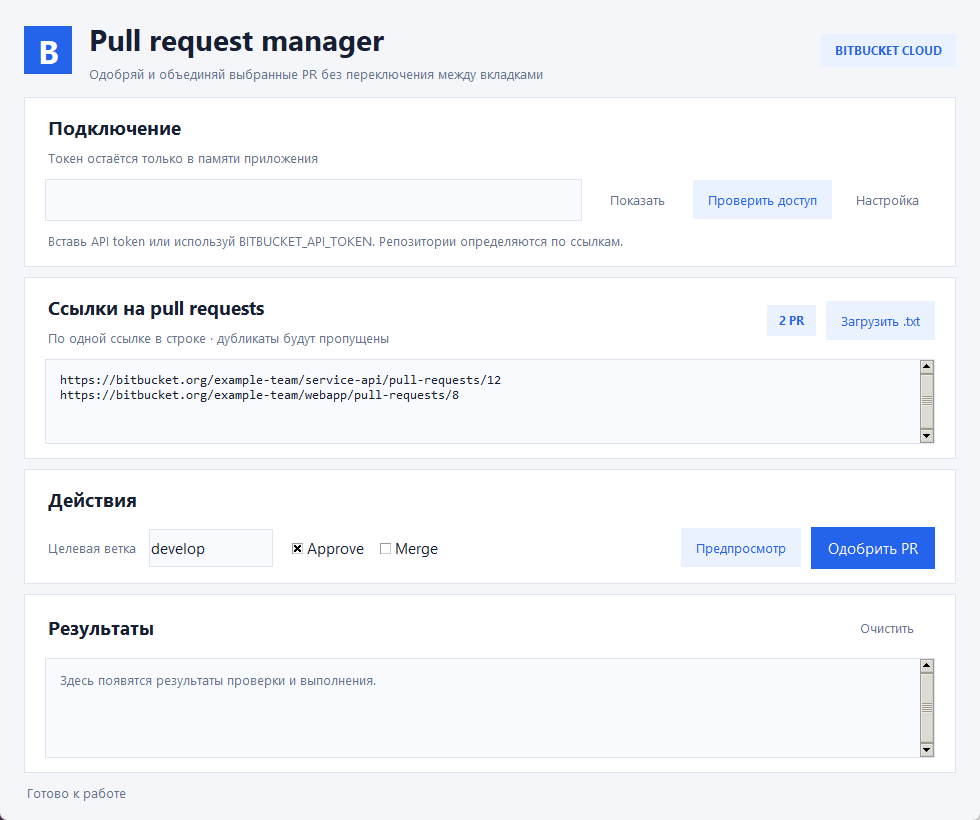
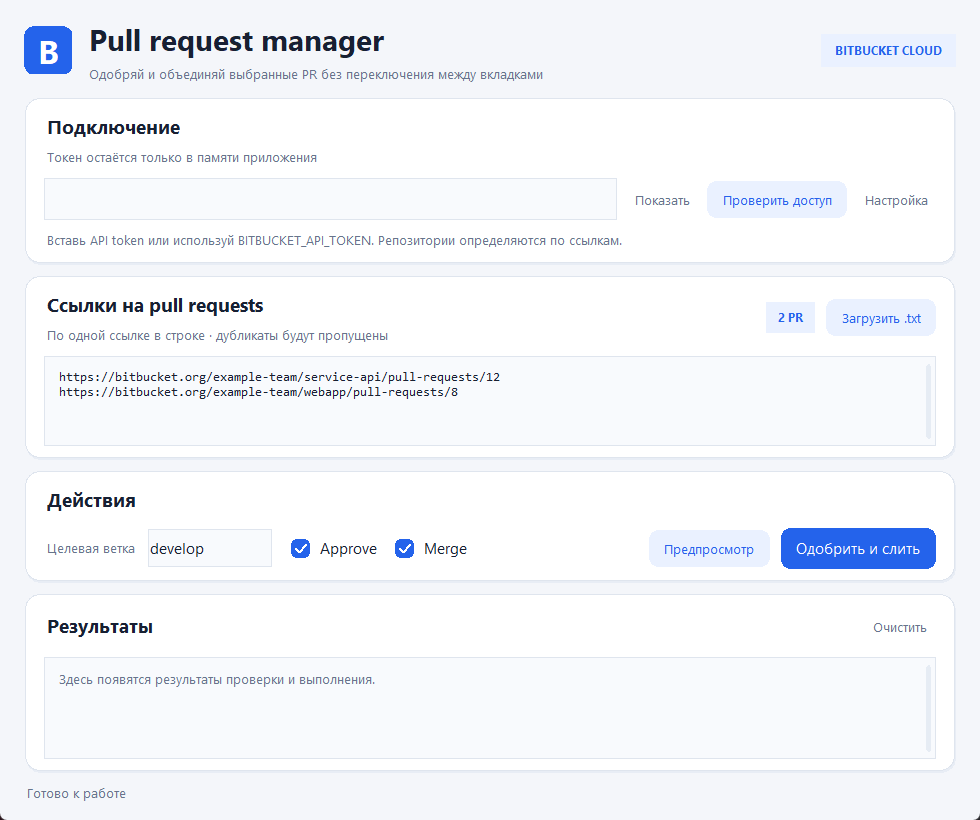
Polish rounded controls, ticks and scrollbars

diff --git a/app/bitbucket_pr_ui.py b/app/bitbucket_pr_ui.py
@@ -37,6 +37,196 @@ def system_font(root):
     return next((name for name in preferred if name in families), "TkDefaultFont")
 
 
+def rounded_rect(canvas, x0, y0, x1, y1, radius, color, tag="shape"):
+    """Draw a filled rounded rectangle using Tk primitives on every platform."""
+    if x1 <= x0 or y1 <= y0:
+        return
+    radius = min(radius, (x1 - x0) / 2, (y1 - y0) / 2)
+    corners = (
+        (x0, y0, 90),
+        (x1 - 2 * radius, y0, 0),
+        (x1 - 2 * radius, y1 - 2 * radius, 270),
+        (x0, y1 - 2 * radius, 180),
+    )
+    for left, top, start in corners:
+        canvas.create_arc(left, top, left + 2 * radius, top + 2 * radius,
+                          start=start, extent=90, style="pieslice",
+                          fill=color, outline=color, tags=tag)
+    canvas.create_rectangle(x0 + radius, y0, x1 - radius, y1,
+                            fill=color, outline=color, tags=tag)
+    canvas.create_rectangle(x0, y0 + radius, x1, y1 - radius,
+                            fill=color, outline=color, tags=tag)
+
+
+class RoundedButton(tk.Canvas):
+    def __init__(self, parent, text, command, font, kind="secondary"):
+        self.label = text
+        self.command = command
+        self.kind = kind
+        self.enabled = True
+        self.hovered = False
+        self.text_font = tkfont.Font(font=font)
+        self.pad_x = 16 if kind != "ghost" else 9
+        self.button_height = 42 if kind == "accent" else 38
+        super().__init__(parent, height=self.button_height, bg=COLORS["surface"],
+                         highlightthickness=0, bd=0, takefocus=1, cursor="hand2")
+        self.set_label(text)
+        self.bind("<Configure>", lambda _event: self.draw())
+        self.bind("<Enter>", self.on_enter)
+        self.bind("<Leave>", self.on_leave)
+        self.bind("<Button-1>", self.on_click)
+        self.bind("<Return>", self.on_click)
+        self.bind("<space>", self.on_click)
+
+    def set_label(self, text):
+        self.label = text
+        self.configure(width=self.text_font.measure(text) + 2 * self.pad_x)
+        self.draw()
+
+    def set_enabled(self, enabled):
+        self.enabled = enabled
+        self.configure(cursor="hand2" if enabled else "arrow")
+        self.draw()
+
+    def on_enter(self, _event):
+        self.hovered = True
+        self.draw()
+
+    def on_leave(self, _event):
+        self.hovered = False
+        self.draw()
+
+    def on_click(self, _event):
+        if self.enabled:
+            self.focus_set()
+            self.command()
+
+    def draw(self):
+        self.delete("all")
+        if self.kind == "accent":
+            fill = COLORS["accent_hover"] if self.hovered else COLORS["accent"]
+            foreground = "#FFFFFF"
+        elif self.kind == "ghost":
+            fill = "#F1F5FB" if self.hovered else COLORS["surface"]
+            foreground = COLORS["accent"] if self.hovered else COLORS["muted"]
+        else:
+            fill = "#DCE9FF" if self.hovered else COLORS["accent_soft"]
+            foreground = COLORS["accent"]
+        if not self.enabled:
+            fill, foreground = "#EEF1F6", "#9AA7B8"
+        width = int(self.cget("width"))
+        height = int(self.cget("height"))
+        rounded_rect(self, 1, 1, width - 1, height - 1, 9, fill)
+        self.create_text(width / 2, height / 2, text=self.label,
+                         fill=foreground, font=self.text_font)
+
+
+class TickBox(tk.Frame):
+    def __init__(self, parent, text, variable, font):
+        super().__init__(parent, bg=COLORS["surface"], takefocus=1, cursor="hand2")
+        self.variable = variable
+        self.icon = tk.Canvas(self, width=20, height=20, bg=COLORS["surface"],
+                              highlightthickness=0, bd=0, cursor="hand2")
+        self.icon.pack(side="left", padx=(0, 7))
+        self.text = tk.Label(self, text=text, bg=COLORS["surface"],
+                             fg=COLORS["text"], font=font, cursor="hand2")
+        self.text.pack(side="left")
+        for widget in (self, self.icon, self.text):
+            widget.bind("<Button-1>", self.toggle)
+        self.bind("<Return>", self.toggle)
+        self.bind("<space>", self.toggle)
+        variable.trace_add("write", lambda *_: self.draw())
+        self.draw()
+
+    def toggle(self, _event):
+        self.focus_set()
+        self.variable.set(not self.variable.get())
+
+    def draw(self):
+        self.icon.delete("all")
+        selected = self.variable.get()
+        rounded_rect(self.icon, 1, 1, 19, 19, 5,
+                     COLORS["accent"] if selected else COLORS["border"])
+        if selected:
+            rounded_rect(self.icon, 2, 2, 18, 18, 4, COLORS["accent"])
+            self.icon.create_line(5, 10, 9, 14, 16, 6, fill="white",
+                                  width=2.2, capstyle="round", joinstyle="round")
+        else:
+            rounded_rect(self.icon, 2, 2, 18, 18, 4, COLORS["surface"])
+
+
+class PillScrollbar(tk.Canvas):
+    def __init__(self, parent, command):
+        super().__init__(parent, width=14, height=1, bg=COLORS["field"],
+                         highlightthickness=0, bd=0, cursor="hand2")
+        self.command = command
+        self.first = 0.0
+        self.last = 1.0
+        self.hovered = False
+        self.drag_offset = 0.0
+        self.thumb_top = 0.0
+        self.thumb_height = 0.0
+        self.bind("<Configure>", lambda _event: self.draw())
+        self.bind("<Enter>", self.on_enter)
+        self.bind("<Leave>", self.on_leave)
+        self.bind("<Button-1>", self.on_press)
+        self.bind("<B1-Motion>", self.on_drag)
+        self.bind("<MouseWheel>", self.on_wheel)
+        self.bind("<Button-4>", lambda _event: self.command("scroll", -1, "units"))
+        self.bind("<Button-5>", lambda _event: self.command("scroll", 1, "units"))
+
+    def set(self, first, last):
+        self.first = max(0.0, min(1.0, float(first)))
+        self.last = max(self.first, min(1.0, float(last)))
+        self.draw()
+
+    def draw(self):
+        self.delete("all")
+        height = self.winfo_height()
+        if height <= 2:
+            return
+        rounded_rect(self, 5, 7, 9, height - 7, 2, "#E6ECF4")
+        visible = self.last - self.first
+        if visible >= 0.999:
+            return
+        span = max(1.0, height - 14)
+        self.thumb_height = min(span, max(30.0, span * visible))
+        available = max(0.0, span - self.thumb_height)
+        self.thumb_top = 7 + available * self.first / max(0.001, 1 - visible)
+        color = COLORS["accent"] if self.hovered else "#AAB8CC"
+        rounded_rect(self, 3, self.thumb_top, 11,
+                     self.thumb_top + self.thumb_height, 4, color)
+
+    def on_enter(self, _event):
+        self.hovered = True
+        self.draw()
+
+    def on_leave(self, _event):
+        self.hovered = False
+        self.draw()
+
+    def on_press(self, event):
+        if self.last - self.first >= 0.999:
+            return
+        if self.thumb_top <= event.y <= self.thumb_top + self.thumb_height:
+            self.drag_offset = event.y - self.thumb_top
+        else:
+            self.drag_offset = self.thumb_height / 2
+            self.on_drag(event)
+
+    def on_drag(self, event):
+        visible = self.last - self.first
+        if visible >= 0.999:
+            return
+        available = max(1.0, self.winfo_height() - 14 - self.thumb_height)
+        offset = max(0.0, min(available, event.y - self.drag_offset - 7))
+        self.command("moveto", offset / available * (1 - visible))
+
+    def on_wheel(self, event):
+        direction = -1 if event.delta > 0 else 1
+        self.command("scroll", direction, "units")
+
+
 class PullRequestApp:
     def __init__(self, root):
         self.root = root
@@ -77,7 +267,7 @@ class PullRequestApp:
         header.columnconfigure(1, weight=1)
         logo = tk.Canvas(header, width=48, height=48, bg=COLORS["background"], highlightthickness=0)
         logo.grid(row=0, column=0, rowspan=2, sticky="w", padx=(0, 14))
-        logo.create_rectangle(0, 0, 48, 48, fill=COLORS["accent"], outline=COLORS["accent"])
+        rounded_rect(logo, 0, 0, 48, 48, 10, COLORS["accent"])
         logo.create_text(24, 24, text="B", fill="white", font=(self.font_name, 24, "bold"))
         tk.Label(header, text="Pull request manager", bg=COLORS["background"],
                  fg=COLORS["text"], font=self.font_title).grid(row=0, column=1, sticky="w")
@@ -101,14 +291,14 @@ class PullRequestApp:
             highlightcolor=COLORS["accent"], bd=0,
         )
         self.token_entry.grid(row=0, column=0, sticky="ew", ipady=9)
-        self.show_button = ttk.Button(credential_row, text="Показать", style="Ghost.TButton",
-                                      command=self.toggle_token)
+        self.show_button = RoundedButton(credential_row, "Показать", self.toggle_token,
+                                         self.font_small, kind="ghost")
         self.show_button.grid(row=0, column=1, padx=(8, 0))
-        self.test_button = ttk.Button(credential_row, text="Проверить доступ",
-                                      style="Secondary.TButton", command=self.check_connection)
+        self.test_button = RoundedButton(credential_row, "Проверить доступ",
+                                         self.check_connection, self.font_small)
         self.test_button.grid(row=0, column=2, padx=(8, 0))
-        ttk.Button(credential_row, text="Настройка", style="Ghost.TButton",
-                   command=self.show_guide).grid(row=0, column=3, padx=(8, 0))
+        RoundedButton(credential_row, "Настройка", self.show_guide,
+                      self.font_small, kind="ghost").grid(row=0, column=3, padx=(8, 0))
         tk.Label(account, text="Вставь API token или используй BITBUCKET_API_TOKEN. Репозитории определяются по ссылкам.",
                  bg=COLORS["surface"], fg=COLORS["muted"],
                  font=self.font_small).grid(row=2, column=0, sticky="w", pady=(8, 0))
@@ -127,8 +317,8 @@ class PullRequestApp:
         tk.Label(links_top, textvariable=self.link_count, bg=COLORS["accent_soft"],
                  fg=COLORS["accent"], font=(self.font_name, 9, "bold"),
                  padx=10, pady=6).grid(row=0, column=1, rowspan=2, padx=(10, 10))
-        self.load_button = ttk.Button(links_top, text="Загрузить .txt",
-                                      style="Secondary.TButton", command=self.load_file)
+        self.load_button = RoundedButton(links_top, "Загрузить .txt",
+                                         self.load_file, self.font_small)
         self.load_button.grid(row=0, column=2, rowspan=2)
         text_container = tk.Frame(links_card, bg=COLORS["border"], padx=1, pady=1)
         text_container.grid(row=1, column=0, sticky="nsew")
@@ -140,7 +330,7 @@ class PullRequestApp:
             selectbackground=COLORS["accent_soft"], relief="flat", bd=0, padx=14, pady=12,
         )
         self.links.grid(row=0, column=0, sticky="nsew")
-        links_scroll = ttk.Scrollbar(text_container, orient="vertical", command=self.links.yview)
+        links_scroll = PillScrollbar(text_container, command=self.links.yview)
         links_scroll.grid(row=0, column=1, sticky="ns")
         self.links.configure(yscrollcommand=links_scroll.set)
         self.links.bind("<<Modified>>", self.update_link_count)
@@ -157,15 +347,13 @@ class PullRequestApp:
                  bg=COLORS["field"], fg=COLORS["text"], relief="flat",
                  highlightthickness=1, highlightbackground=COLORS["border"],
                  highlightcolor=COLORS["accent"], bd=0).pack(side="left", ipady=7, padx=(0, 18))
-        ttk.Checkbutton(options, text="Approve", variable=self.approve,
-                        style="Card.TCheckbutton").pack(side="left", padx=(0, 14))
-        ttk.Checkbutton(options, text="Merge", variable=self.merge,
-                        style="Card.TCheckbutton").pack(side="left")
-        self.run_button = ttk.Button(options, text="Одобрить PR",
-                                     style="Accent.TButton", command=self.run)
+        TickBox(options, "Approve", self.approve, self.font).pack(side="left", padx=(0, 14))
+        TickBox(options, "Merge", self.merge, self.font).pack(side="left")
+        self.run_button = RoundedButton(options, "Одобрить PR", self.run,
+                                        self.font, kind="accent")
         self.run_button.pack(side="right")
-        self.preview_button = ttk.Button(options, text="Предпросмотр",
-                                         style="Secondary.TButton", command=self.preview)
+        self.preview_button = RoundedButton(options, "Предпросмотр",
+                                            self.preview, self.font_small)
         self.preview_button.pack(side="right", padx=(0, 10))
         self.approve.trace_add("write", self.update_run_label)
         self.merge.trace_add("write", self.update_run_label)
@@ -178,8 +366,8 @@ class PullRequestApp:
         results_top.columnconfigure(0, weight=1)
         tk.Label(results_top, text="Результаты", bg=COLORS["surface"],
                  fg=COLORS["text"], font=self.font_section).grid(row=0, column=0, sticky="w")
-        ttk.Button(results_top, text="Очистить", style="Ghost.TButton",
-                   command=self.clear_output).grid(row=0, column=1)
+        RoundedButton(results_top, "Очистить", self.clear_output,
+                      self.font_small, kind="ghost").grid(row=0, column=1)
         output_container = tk.Frame(results, bg=COLORS["border"], padx=1, pady=1)
         output_container.grid(row=1, column=0, sticky="nsew")
         output_container.columnconfigure(0, weight=1)
@@ -190,7 +378,7 @@ class PullRequestApp:
             padx=14, pady=12,
         )
         self.output.grid(row=0, column=0, sticky="nsew")
-        output_scroll = ttk.Scrollbar(output_container, orient="vertical", command=self.output.yview)
+        output_scroll = PillScrollbar(output_container, command=self.output.yview)
         output_scroll.grid(row=0, column=1, sticky="ns")
         self.output.configure(yscrollcommand=output_scroll.set)
         for tag, color in (("ok", COLORS["success"]), ("fail", COLORS["danger"]),
@@ -215,30 +403,28 @@ class PullRequestApp:
     def configure_styles(self):
         style = ttk.Style(self.root)
         style.theme_use("clam")
-        style.configure("Accent.TButton", background=COLORS["accent"], foreground="white",
-                        borderwidth=0, relief="flat", padding=(16, 10), font=self.font)
-        style.map("Accent.TButton", background=[("disabled", COLORS["border"]),
-                                                  ("active", COLORS["accent_hover"])],
-                  foreground=[("disabled", COLORS["muted"])])
-        style.configure("Secondary.TButton", background=COLORS["accent_soft"],
-                        foreground=COLORS["accent"], borderwidth=0, relief="flat",
-                        padding=(14, 10), font=self.font_small)
-        style.map("Secondary.TButton", background=[("active", "#DCE9FF")])
-        style.configure("Ghost.TButton", background=COLORS["surface"],
-                        foreground=COLORS["muted"], borderwidth=0, relief="flat",
-                        padding=(8, 9), font=self.font_small)
-        style.map("Ghost.TButton", foreground=[("active", COLORS["accent"])])
-        style.configure("Card.TCheckbutton", background=COLORS["surface"],
-                        foreground=COLORS["text"], font=self.font, padding=(0, 4))
-        style.map("Card.TCheckbutton", background=[("active", COLORS["surface"])])
         style.configure("Accent.Horizontal.TProgressbar", background=COLORS["accent"],
                         troughcolor=COLORS["border"], borderwidth=0)
 
     def card(self, parent, row, *, pady=(0, 0)):
-        card = tk.Frame(parent, bg=COLORS["surface"], highlightthickness=1,
-                        highlightbackground=COLORS["border"], padx=20, pady=14)
-        card.grid(row=row, column=0, sticky="nsew", pady=pady)
-        return card
+        outer = tk.Frame(parent, bg=COLORS["background"])
+        outer.grid(row=row, column=0, sticky="nsew", pady=pady)
+        backdrop = tk.Canvas(outer, bg=COLORS["background"],
+                             highlightthickness=0, bd=0)
+        backdrop.place(x=0, y=0, relwidth=1, relheight=1)
+        content = tk.Frame(outer, bg=COLORS["surface"], padx=8, pady=2)
+        content.pack(fill="both", expand=True, padx=12, pady=12)
+        content.lift()
+
+        def redraw(event):
+            width, height = event.width, event.height
+            backdrop.delete("all")
+            rounded_rect(backdrop, 2, 3, width - 1, height - 1, 14, "#E8EDF5")
+            rounded_rect(backdrop, 1, 1, width - 2, height - 3, 14, COLORS["border"])
+            rounded_rect(backdrop, 2, 2, width - 3, height - 4, 13, COLORS["surface"])
+
+        outer.bind("<Configure>", redraw)
+        return content
 
     def section_header(self, parent, title, subtitle, row):
         group = tk.Frame(parent, bg=COLORS["surface"])
@@ -251,7 +437,7 @@ class PullRequestApp:
     def toggle_token(self):
         self._token_visible = not self._token_visible
         self.token_entry.configure(show="" if self._token_visible else "*")
-        self.show_button.configure(text="Скрыть" if self._token_visible else "Показать")
+        self.show_button.set_label("Скрыть" if self._token_visible else "Показать")
 
     def update_link_count(self, _event=None):
         if self.links.edit_modified():
@@ -269,7 +455,7 @@ class PullRequestApp:
             label = "Одобрить PR"
         else:
             label = "Выбери действие"
-        self.run_button.configure(text=label)
+        self.run_button.set_label(label)
 
     def clear_output(self):
         self.output.configure(state="normal")
@@ -294,9 +480,8 @@ class PullRequestApp:
 
     def set_busy(self, value):
         self.busy = value
-        state = "disabled" if value else "normal"
         for button in (self.test_button, self.load_button, self.preview_button, self.run_button):
-            button.configure(state=state)
+            button.set_enabled(not value)
         self.status.set("Работаю с Bitbucket..." if value else "Готово.")
         if value:
             self.progress.grid()

diff --git a/README.md b/README.md
@@ -56,4 +56,4 @@ CLI с тем же Bitbucket API-кодом: `python app/bitbucket_pr_batch.py -
 python -m unittest discover -s tests -p "test_*.py"
 ```
 
-Сборки исполняемых файлов запускаются вручную в **Actions → Build desktop apps → Run workflow**. Тег вида `v0.1.1` запускает четыре сборки и добавляет архивы в приватный GitHub Release. Для локальной сборки требуется только `python -m pip install -r requirements-build.txt`, затем `python -m PyInstaller --onefile --windowed --name BitbucketPRManager app/bitbucket_pr_ui.py`.
+Сборки исполняемых файлов запускаются вручную в **Actions → Build desktop apps → Run workflow**. Тег вида `vX.Y.Z` запускает четыре сборки и добавляет архивы в приватный GitHub Release. Для локальной сборки требуется только `python -m pip install -r requirements-build.txt`, затем `python -m PyInstaller --onefile --windowed --name BitbucketPRManager app/bitbucket_pr_ui.py`.
